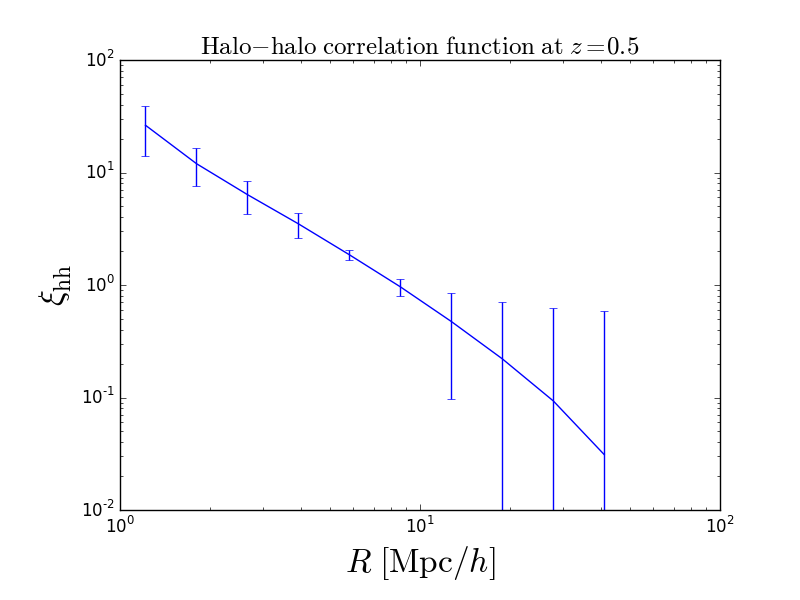
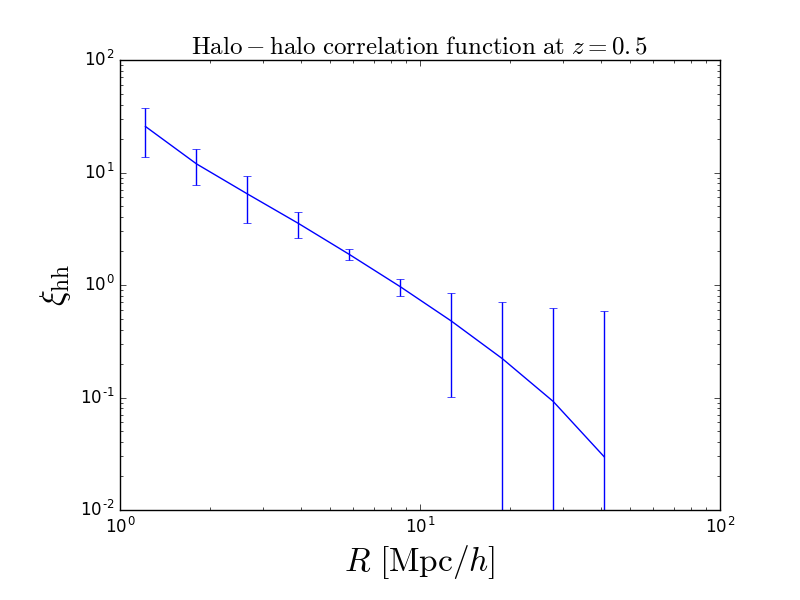
the HMCF with jackknifing works completely.

diff --git a/encore/hmcf/compute_hmcf_jk.py b/encore/hmcf/compute_hmcf_jk.py
@@ -47,9 +47,232 @@ def calculate_JK_hmcf(outpath,nbins,limits,edges,Nh,halorandoms,dmrandoms,ndivs,
     #Treecorr interface
     config = {'nbins':nbins,'min_sep':limits[0],'max_sep':limits[1]}
 
+    #Calculate RR autocorrelation once
+    halorandom_cat = treecorr.Catalog(x=halorandoms[:,0],y=halorandoms[:,1],z=halorandoms[:,2],config=config)
+    dmrandom_cat   = treecorr.Catalog(x=dmrandoms[:,0],y=dmrandoms[:,1],z=dmrandoms[:,2],config=config)
+    RRa = treecorr.NNCorrelation(config)
+    RRa.process(halorandom_cat,dmrandom_cat)
+
+    #Get all autocorrelations
+    #These are all of length Njks
+    DDa_all, DRa_all, RDa_all = calculate_autos(config,all_halos,all_dms,halorandoms,dmrandoms,step,ndivs,Njk)
+
+    #Get all cross correlations
+    DDc_all,DRc_all,RDc_all,RRc_all = calculate_cross(config,all_halos,all_dms,halorandoms,dmrandoms,step,ndivs,Njk)
+
+    #Find the totals
+    DDt,DRt,RDt,RRt = calculate_total(RRa,DDa_all,DRa_all,RDa_all,DDc_all,DRc_all,RDc_all,RRc_all,Njk,config)
+
+    #Find each of the xi curves
+    xi_all = calculate_xi_LOO(RRa,DDt,DRt,RDt,RRt,DDa_all,DRa_all,RDa_all,
+                              DDc_all,DRc_all,RDc_all,RRc_all,Njk)
+
+    #Find the covariance matrix
+    cov = calculate_cov_matrix(outpath,xi_all,nbins,Njk)
+    err = np.sqrt(np.diagonal(cov))
+
+    #Output the final data vector
+    fullpath = outpath+"halomatter_correlation_function/full_hmcf/full_hmcf.txt"
+    data = np.loadtxt(fullpath)
+    R = data[:,0]
+    xi_true = data[:,3]
+    make_final_hmcf_data(outpath,R,xi_true,err)
+
     print "\tHMCF JK NOT IMPLEMENTED YET!!"
     return
 
+def make_final_hmcf_data(outpath,R,xi,err):
+    """
+    Create the finalized data file with the errors.
+    """
+    finalpath = outpath+"/halomatter_correlation_function/final_hmcf/final_hmcf.txt"
+    outfile = open(finalpath,"w")
+    outfile.write("#R Mpc/h; Xi; Xi_JK_err\n")
+    for i in range(len(R)):
+        outfile.write("%.4e\t%.4e\t%.4e\n"%(R[i],xi[i],err[i]))
+    outfile.close()
+    print "\tFinal HMCF JK data created."
+    return
+
+def calculate_cov_matrix(outpath,xi_all,nbins,Njk):
+    """
+    Calculate the JK covariance matrix.
+    """
+    fullpath = outpath+"halomatter_correlation_function/full_hmcf/full_hmcf.txt"
+    data = np.loadtxt(fullpath)
+    xi_true = data[:,3]
+    cov = np.zeros((nbins,nbins))
+    C = (Njk-1.0)/Njk
+    for i in range(nbins):
+        for j in range(nbins):
+            cov[i,j] = C*np.sum((xi_true[i]-xi_all[:,i])*(xi_true[j]-xi_all[:,j]))
+    covpath = outpath+"halomatter_correlation_function/cov_matrix/cov_matrix.txt"
+    np.savetxt(covpath,cov)
+    return cov
+
+
+def calculate_xi_LOO(RRa,DDt,DRt,RDt,RRt,DDa_all,DRa_all,RDa_all,DDc_all,DRc_all,RDc_all,RRc_all,Njk):
+    """
+    Calculate the leave-one-out HHCFs.
+    """
+    xi_all = []
+    for i in range(Njk):
+        DDl = DDt.copy() #Copy the totals
+        DRl = DRt.copy()
+        RDl = RDt.copy()
+        RRl = RRt.copy()
+        #Remove the auto-correlations
+        DDl.weight[:]-=DDa_all[i].weight[:]
+        DDl.npairs[:]-=DDa_all[i].npairs[:]
+        DDl.tot-=DDa_all[i].tot
+        DRl.weight[:]-=DRa_all[i].weight[:]
+        DRl.npairs[:]-=DRa_all[i].npairs[:]
+        DRl.tot-=DRa_all[i].tot
+        RDl.weight[:]-=RDa_all[i].weight[:]
+        RDl.npairs[:]-=RDa_all[i].npairs[:]
+        RDl.tot-=RDa_all[i].tot
+        RRl.weight[:]-=RRa.weight[:]
+        RRl.npairs[:]-=RRa.npairs[:]
+        RRl.tot-=RRa.tot
+        for j in range(Njk): #Remove the cross-correlations
+            DDl.weight[:]-=0.5*DDc_all[i].weight[:]
+            DDl.npairs[:]-=0.5*DDc_all[i].npairs[:]
+            DDl.tot-=0.5*DDc_all[i].tot
+            DRl.weight[:]-=DRc_all[i].weight[:]
+            DRl.npairs[:]-=DRc_all[i].npairs[:]
+            DRl.tot-=DRc_all[i].tot
+            RDl.weight[:]-=RDc_all[i].weight[:]
+            RDl.npairs[:]-=RDc_all[i].npairs[:]
+            RDl.tot-=RDc_all[i].tot
+            RRl.weight[:]-=0.5*RRc_all[i].weight[:]
+            RRl.npairs[:]-=0.5*RRc_all[i].npairs[:]
+            RRl.tot-=0.5*RRc_all[i].tot
+        #Calculate xi_LOO
+        xi,varxi = DDl.calculateXi(RRl,DRl,RDl)
+        xi_all.append(xi)
+    print "\t\tLeave-one-out HMCFs calculated."
+    return np.array(xi_all)
+
+def calculate_total(RRa,DDa_all,DRa_all,RDa_all,DDc_all,DRc_all,RDc_all,RRc_all,Njk,config):
+    """
+    Resum the auto and cross correlations
+    to get total quantities.
+    """
+    DDt = treecorr.NNCorrelation(config)
+    DRt = treecorr.NNCorrelation(config)
+    RDt = treecorr.NNCorrelation(config)
+    RRt = treecorr.NNCorrelation(config)
+    for i in range(Njk):
+        DDt+=DDa_all[i]
+        DRt+=DRa_all[i]
+        DRt+=DRc_all[i]
+        RDt+=RDa_all[i]
+        RDt+=RDc_all[i]
+        RRt+=RRa
+        DDt.weight[:]+=0.5*DDc_all[i].weight[:]
+        DDt.npairs[:]+=0.5*DDc_all[i].npairs[:]
+        DDt.tot+=0.5*DDc_all[i].tot
+        RRt.weight[:]+=0.5*RRc_all[i].weight[:]
+        RRt.npairs[:]+=0.5*RRc_all[i].npairs[:]
+        RRt.tot+=0.5*RRc_all[i].tot
+    print "\t\tResumming HMCF JK total complete."
+    return DDt,DRt,RDt,RRt
+
+def calculate_cross(config,all_halos,all_dms,halorandoms,dmrandoms,step,ndivs,Njk):
+    """
+    Calcualte the DD, DR, RD and RR cross correlations
+    """
+    #Inititalize these objects
+    DDc_all = []
+    DRc_all = []
+    RDc_all = []
+    RRc_all = []
+    for i in xrange(0,Njk):
+        DDc_all.append(treecorr.NNCorrelation(config))
+        DRc_all.append(treecorr.NNCorrelation(config))
+        RDc_all.append(treecorr.NNCorrelation(config))
+        RRc_all.append(treecorr.NNCorrelation(config))
+
+    for index1 in xrange(0,Njk):
+        halos = all_halos[index1]
+        halo_cat = treecorr.Catalog(x=halos[:,0],
+                                    y=halos[:,1],
+                                    z=halos[:,2],config=config)
+        i1 = index1%ndivs
+        j1 = (index1/ndivs)%ndivs
+        k1 = index1/ndivs**2
+        dmrandom_cat = treecorr.Catalog(x=dmrandoms[:,0]+i1*step,
+                                        y=dmrandoms[:,1]+j1*step,
+                                        z=dmrandoms[:,2]+k1*step,
+                                        config=config)
+        for index2 in xrange(index1+1,Njk):
+            dm = all_dms[index2]
+            dm_cat = treecorr.Catalog(x=dm[:,0],
+                                      y=dm[:,1],
+                                      z=dm[:,2],config=config)
+            i2 = index2%ndivs
+            j2 = (index2/ndivs)%ndivs
+            k2 = index2/ndivs**2
+            halorandom_cat = treecorr.Catalog(x=halorandoms[:,0]+i2*step,
+                                              y=halorandoms[:,1]+j2*step,
+                                              z=halorandoms[:,2]+k2*step,
+                                              config=config)
+            DD = treecorr.NNCorrelation(config)
+            DR = treecorr.NNCorrelation(config)
+            RD = treecorr.NNCorrelation(config)
+            RR = treecorr.NNCorrelation(config)
+            DD.process(halo_cat,dm_cat)
+            DR.process(halo_cat,halorandom_cat)
+            RD.process(dm_cat,dmrandom_cat)
+            RR.process(dmrandom_cat,halorandom_cat)
+            DDc_all[index1]+=DD
+            DDc_all[index2]+=DD
+            DRc_all[index1]+=DR
+            RDc_all[index2]+=RD
+            RRc_all[index1]+=RR
+            RRc_all[index2]+=RR
+    return DDc_all,DRc_all,RDc_all,RRc_all
+
+def calculate_autos(config,all_halos,all_dms,halorandoms,dmrandoms,step,ndivs,Njk):
+    """
+    Calculate the DD, DR, RD autocorrelations
+    """
+    DDa_all = []
+    DRa_all = []
+    RDa_all = []
+    for index in range(Njk):
+        halos = all_halos[index]
+        dm = all_dms[index]
+        i = index%ndivs
+        j = (index/ndivs)%ndivs
+        k = index/ndivs**2
+        halorandom_cat = treecorr.Catalog(x=halorandoms[:,0]+i*step,
+                                          y=halorandoms[:,1]+j*step,
+                                          z=halorandoms[:,2]+k*step,
+                                          config=config)
+        halo_cat = treecorr.Catalog(x=halos[:,0],
+                                    y=halos[:,1],
+                                    z=halos[:,2],
+                                    config=config)
+        dmrandom_cat = treecorr.Catalog(x=dmrandoms[:,0]+i*step,
+                                        y=dmrandoms[:,1]+j*step,
+                                        z=dmrandoms[:,2]+k*step,
+                                        config=config)
+        dm_cat = treecorr.Catalog(x=dm[:,0],
+                                  y=dm[:,1],
+                                  z=dm[:,2],
+                                  config=config)
+        DD = treecorr.NNCorrelation(config)
+        DR = treecorr.NNCorrelation(config)
+        RD = treecorr.NNCorrelation(config)
+        DD.process(halo_cat,dm_cat)
+        DR.process(halo_cat,halorandom_cat)
+        RD.process(dm_cat,dmrandom_cat)
+        DDa_all.append(DD)
+        DRa_all.append(DR)
+        RDa_all.append(RD)
+    print "\t\tHMCF DD, DR, RD autocorrelations computed."
+    return DDa_all,DRa_all,RDa_all
     
 def read_halos(outpath,Njk):
     """

diff --git a/encore/hhcf/compute_hhcf_jk.py b/encore/hhcf/compute_hhcf_jk.py
@@ -140,6 +140,10 @@ def calculate_xi_LOO(RRa,DDt,DRt,RRt,DDa_all,DRa_all,DDc_all,DRc_all,RRc_all,Njk
     return np.array(xi_all)
 
 def calculate_total(RRa,DDa_all,DRa_all,DDc_all,DRc_all,RRc_all,Njk,config):
+    """
+    Resum the auto and cross correlations
+    to get total quantities.
+    """
     DDt = treecorr.NNCorrelation(config)
     DRt = treecorr.NNCorrelation(config)
     RRt = treecorr.NNCorrelation(config)
@@ -165,12 +169,12 @@ def calculate_cross(config,all_halos,randoms,step,ndivs,Njk):
     DDc_all = []
     DRc_all = []
     RRc_all = []
-    for i in range(Njk):
+    for i in xrange(0,Njk):
         DDc_all.append(treecorr.NNCorrelation(config))
         DRc_all.append(treecorr.NNCorrelation(config))
         RRc_all.append(treecorr.NNCorrelation(config))
         
-    for index1 in range(Njk):
+    for index1 in xrange(0,Njk):
         halos1 = all_halos[index1]
         halo_cat1 = treecorr.Catalog(x=halos1[:,0],
                                      y=halos1[:,1],

diff --git a/visualize.py b/visualize.py
@@ -12,7 +12,6 @@ M_bins = data[:,:2]
 lM = np.log10(np.mean(M_bins,1))
 N = data[:,2]
 N_err = data[:,3]
-
 def plot_MF(lM,N,N_err):
     fig,ax = plt.subplots(1,1)
     ax.errorbar(lM,N,yerr=N_err)
@@ -26,7 +25,7 @@ def plot_MF(lM,N,N_err):
     plt.show()
     plt.close()
 
-plot_MF(lM,N,N_err)
+#plot_MF(lM,N,N_err)
 
 #Read in the HH_CF data
 data_path = "./output/halohalo_correlation_function/final_hhcf/final_hhcf.txt"
@@ -49,14 +48,14 @@ def plot_HHCF(R,xi,xi_err):
     plt.close()
     return
 
-plot_HHCF(R,xi,xi_err)
+#plot_HHCF(R,xi,xi_err)
 
 #Read in the HM_CF data
-data_path = "./output/halomatter_correlation_function/full_hmcf/full_hmcf.txt"
+data_path = "./output/halomatter_correlation_function/final_hmcf/final_hmcf.txt"
 data = np.genfromtxt(data_path)
 R = data[:,0]
-xi = data[:,3]
-xi_err = data[:,4]
+xi = data[:,1]
+xi_err = data[:,2]
 def plot_HMCF(R,xi,xi_err):
     fig,ax = plt.subplots(1,1)
     ax.errorbar(R,xi,yerr=xi_err)

diff --git a/example.py b/example.py
@@ -36,6 +36,10 @@ my_encore = encore.encore(outpath="./output/",particle_mass=particle_mass,do_JK=
 
 #Step 4
 #my_encore.compute_mass_function(do_JK=True)
-#my_encore.create_random_catalogs(edges,N=800000,do_DM=True) #Comment this out once it is run one time
+my_encore.create_random_catalogs(edges,N=800000,do_DM=True) #Comment this out once it is run one time
 #my_encore.compute_hhcf(edges,do_JK=True)
-my_encore.compute_hmcf(edges,do_JK=True)
+#You can also define your own radial bins
+#Note: more bins and smaller scales means a longer run time
+limits = [0.1,50.0]
+nbins = 20
+my_encore.compute_hmcf(edges,nbins=nbins,limits=limits,do_JK=True)

diff --git a/encore/hmcf/compute_hmcf.py b/encore/hmcf/compute_hmcf.py
@@ -56,9 +56,9 @@ def compute_hmcf(outpath,nbins,limits,edges,do_JK,ndivs,DSF):
     print "\tN_dm_randoms full   = %d"%len(dmrandoms)
 
     #Step 3: calculate the full HM correlation function
-    #calcalate_hmcf_full(outpath,nbins,limits,Nh,halorandoms,dmrandoms,DSF)
+    calcalate_hmcf_full(outpath,nbins,limits,Nh,halorandoms,dmrandoms,DSF)
 
-    #Step 4: calculate the HH correlation function within JK subregions
+    #Step 4: calculate the HM correlation function within JK subregions
     if do_JK:
         halorandpath = outpath+"/randoms/jk_halo_random.txt"
         dmrandpath   = outpath+"/randoms/jk_dm_random.txt"
